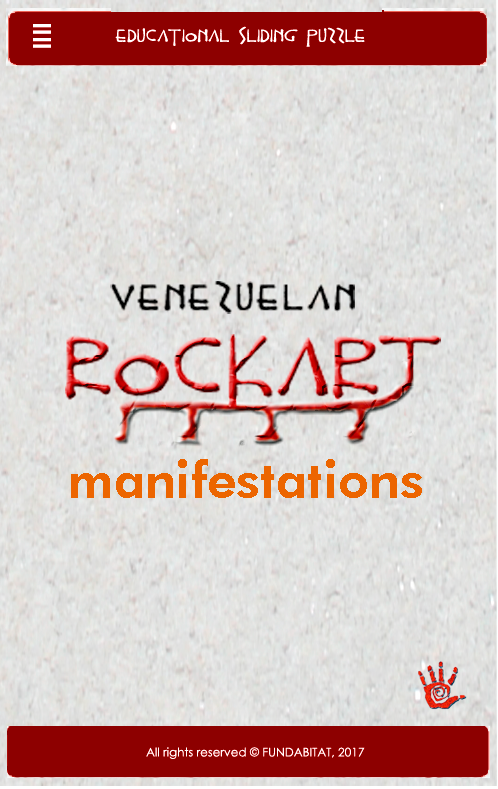
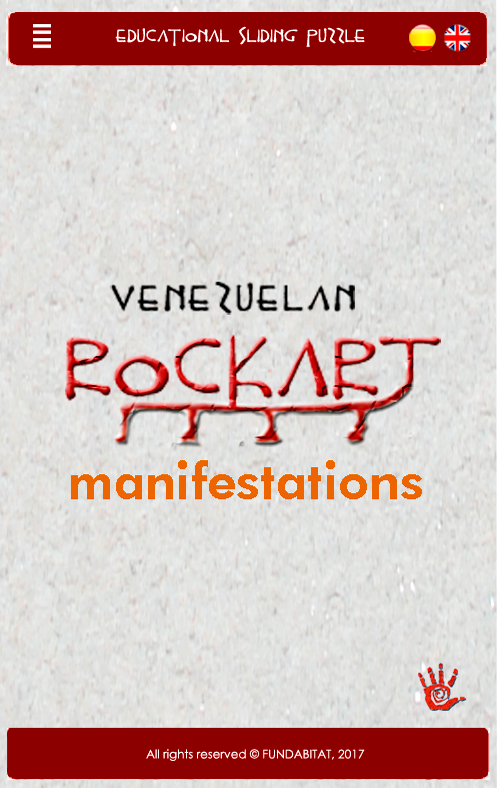
últimas modificaciones

diff --git a/www/index.html b/www/index.html
@@ -41,12 +41,13 @@
                       left: 0%; 
                       top: 0%;"></a>
 
-
+			<!--
             <img src="img/iconos/banderas-idiomas.png" alt="icon"
                  style="position:absolute;width:auto;height:10%; top: 80%; left: 35%;" />
-            <a style="display:block; position:absolute;left:35%; top:80%; width:20%; height:10%;"
+            -->
+            <a style="display:block; position:absolute;left:82%; top:0%; width:7%; height:10%;"
             onclick="cambiarIdiomaEspanyol();"></a>
-            <a style="display:block; position:absolute;left:55%; top:80%; width:20%; height:10%;"
+            <a style="display:block; position:absolute;left:90%; top:0%; width:7%; height:10%;"
             onclick="cambiarIdiomaIngles();"></a>
     </div>
 
@@ -161,6 +162,11 @@
          style="width:100%;
                 height:100%;"
          onclick="quitarMapa();mostrarImagenInfo();">
+
+		<img src="img/iconos/Dedito-a-la-izquierda.png" alt="icon"
+                 style="position:absolute;width:auto;height:5%; top: 90%; left: 45%;" 
+                 onclick="quitarMapa();mostrarImagenInfo();" />
+
     </div>
     
     <!-- Fin Vista Mapa -->
@@ -220,6 +226,11 @@
             
             <a style="display:block; width:100%; height:100%; position:absolute; left: 0%; top: 0%;"
                onclick="mostrarImagenInfo();"></a>
+
+			<img src="img/iconos/dedito_abajo.png" alt="icon"
+                 style="position:absolute;width:auto;height:5%; top: 90%; left: 90%;" 
+                 onclick="mostrarImagenInfo();" />
+
             <!--<a style="display:block; 
                       width:30%; 
                       height:6%; 
@@ -286,9 +297,9 @@
                       top: 20%;
                       margin-top:1%;
                       color:black;">
-                        <span id="juego-minutos">00</span>
+                        <span style="padding:0px;margin:0px;" id="juego-minutos">00</span>
                           :
-                        <span id="juego-segundos">00</span>
+                        <span style="padding:0px;margin:0px;" id="juego-segundos">00</span>
             </a>
             <a class="tablero-sprite" id="juego-contador-movidass"
                style="display:block; 
